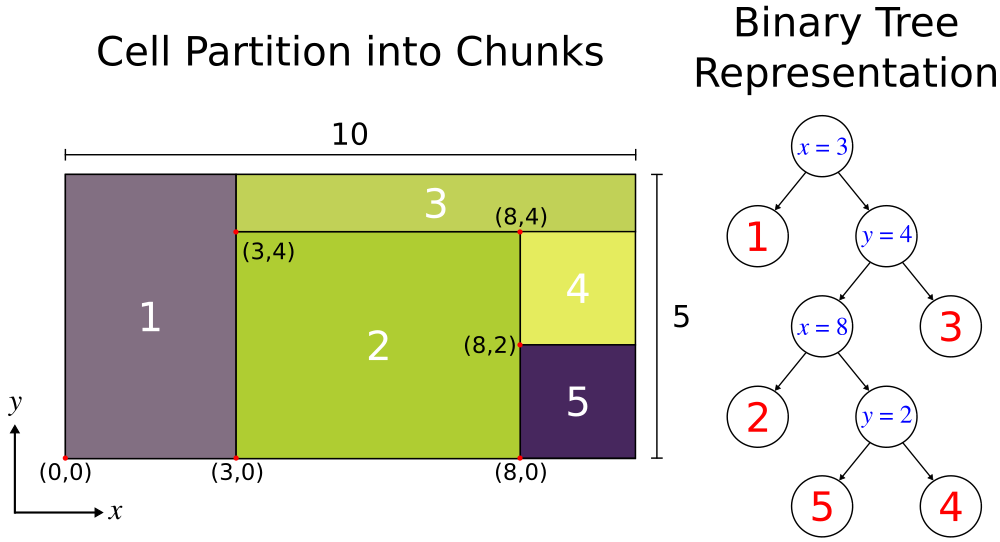
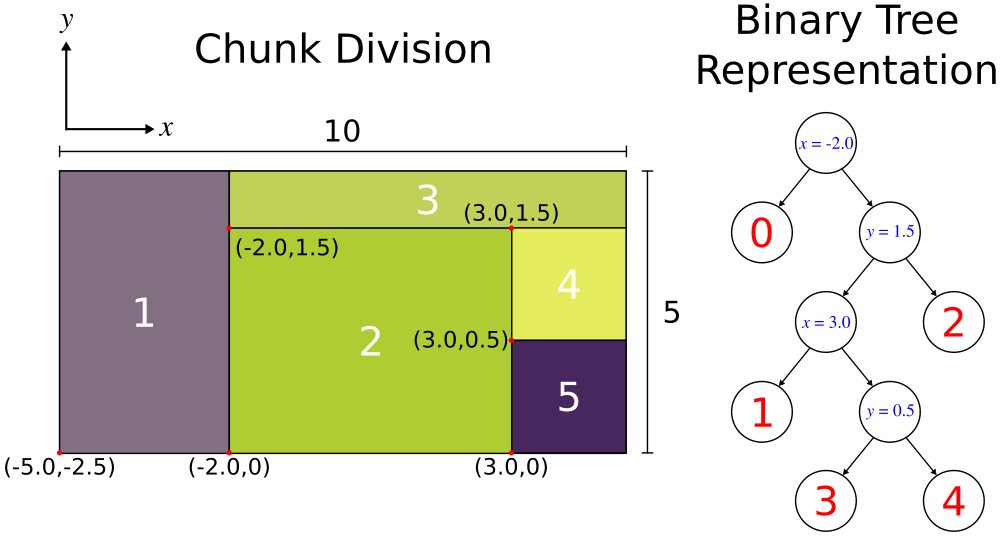
update figure to center origin at the center of the cell

diff --git a/doc/docs/Parallel_Meep.md b/doc/docs/Parallel_Meep.md
@@ -73,7 +73,7 @@ As a demonstration, an example of a 2d cell partition along with its binary-tree
 ![](images/chunk_division_binary_tree.png)
 </center>
 
-This binary tree can be described as a list of lists where each list entry is `[ (split_dir,split_pos), left, right ]` for which `split_dir` and `split_pos` define the splitting direction and position, and `left` and `right` are the left and right branches which can be either another list defining a new node or a chunk ID. There are two items to note when converting the binary tree shown above into a `BinaryPartition` class object: (1) by default, Meep defines the cell origin to be at the geometric center of the cell (i.e., at location (5.0,2.5) in the coordinate system of the figure) and thus all splitting coordinates must be shifted accordingly, and (2) MPI ranks must be defined in the range [0,`num_chunks`-1] which requires that all process IDs be shifted down by one. Based on these specifications, the cell partition from above can be set up as follows:
+This binary tree can be described as a list of lists where each list entry is `[ (split_dir,split_pos), left, right ]` for which `split_dir` and `split_pos` define the splitting direction and position, and `left` and `right` are the left and right branches which can be either another list defining a new node or a chunk ID. Based on these specifications, the cell partition from above can be set up as follows:
 
 ```py
 import meep as mp
